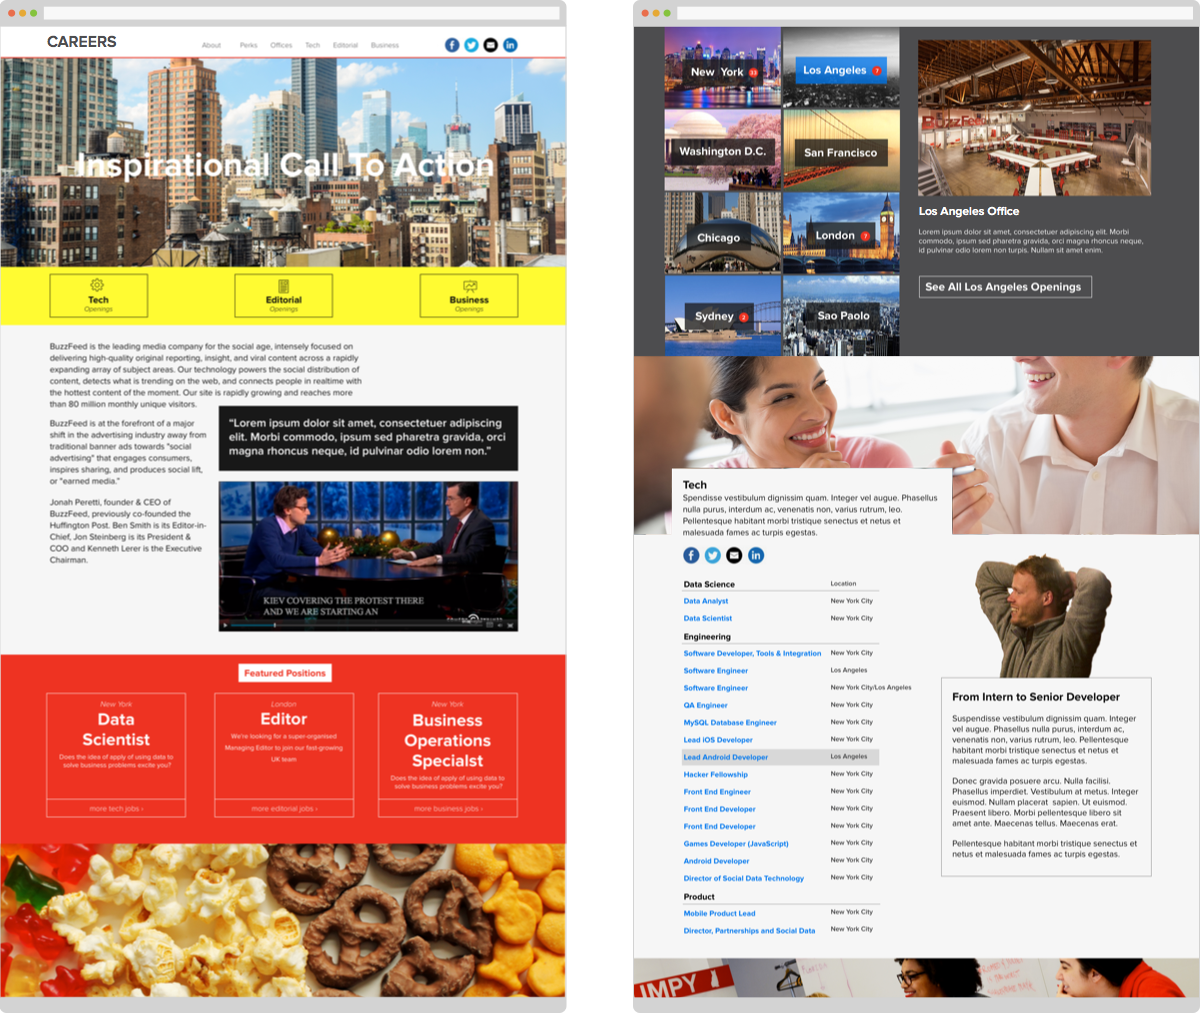
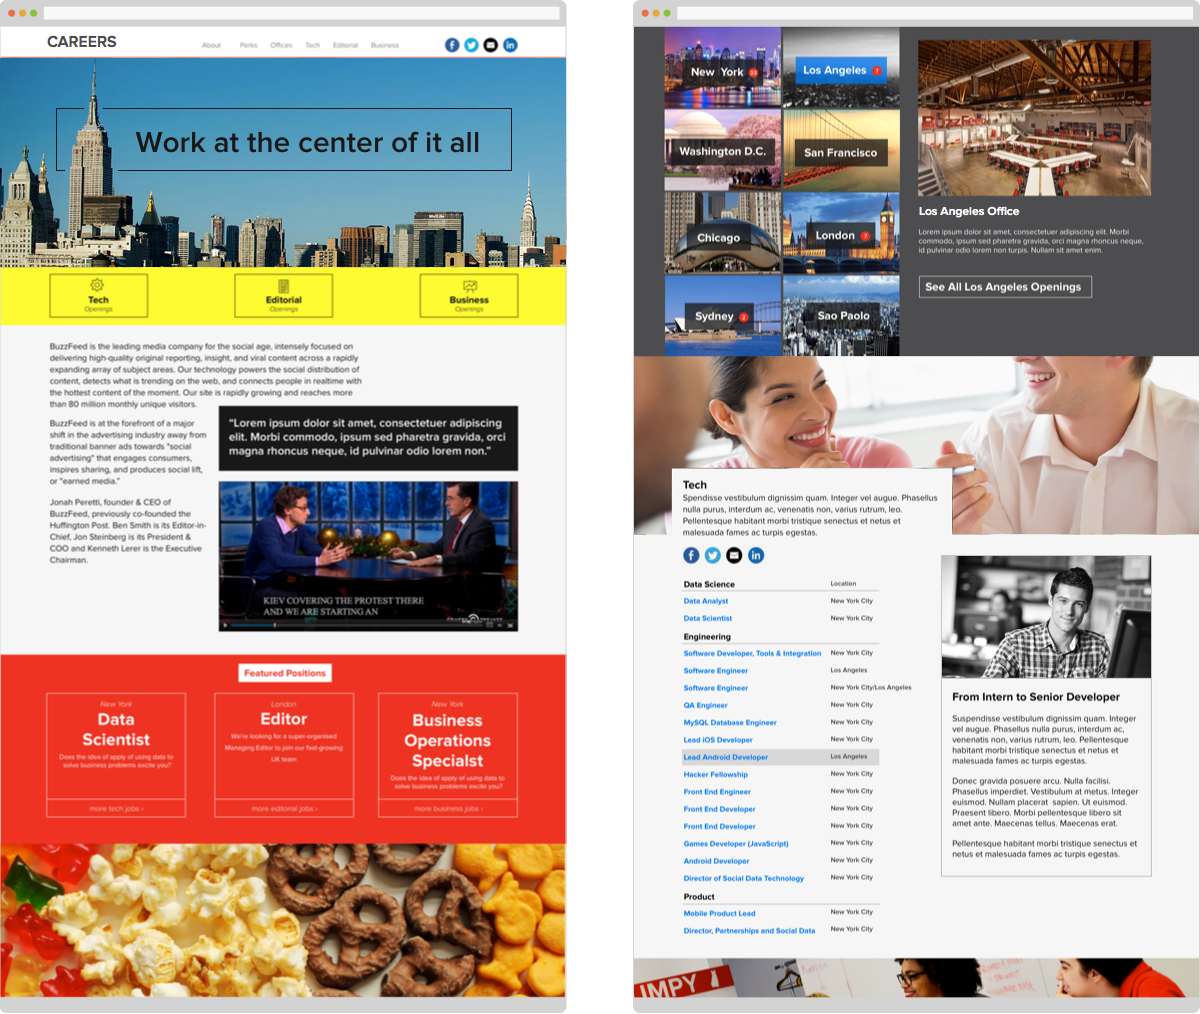
updated careers project

Changed region(s): [[0.0, 0.0306, 0.4933, 0.2751], [0.7708, 0.5503, 0.9867, 0.6726]]

diff --git a/_site/other/2016/10/10/careers.html b/_site/other/2016/10/10/careers.html
@@ -7,7 +7,7 @@
   <meta name="viewport" content="width=device-width, initial-scale=1">
 
   <title>Careers Site</title>
-  <meta name="description" content="Design for a careers microsite. This site has to list content, but also sell it. A large number of listings targeting a wide variety of job seekers necessita...">
+  <meta name="description" content="Design for a careers microsite. This site has two distinct goals. I needed to list content, but also sell it to visitors. The visual design gives the impress...">
 
   <link rel="stylesheet" href="/assets/main.css">
   <link rel="canonical" href="http://localhost:4000/other/2016/10/10/careers.html">
@@ -65,13 +65,15 @@
   </header>
 
   <div class="post-content" itemprop="articleBody">
-    <p>Design for a careers microsite. This site has to list content, but also sell it. A large number of listings targeting a wide variety of job seekers necessitates multiple forms of navigation.</p>
+    <p>Design for a careers microsite. This site has two distinct goals. I needed to list content, but also sell it to visitors. The visual design gives the impression of an energetic, modern, and global business. I filled it with bright graphics keep the page from being too text heavy. Job listings are interspersed with information about benefits and company vision.</p>
 
-<p>In addition to searching by office and department, featured listings are highlighted. Bright graphics keep the page from being too text heavy. Profiles of employees bring a human touch.</p>
+<p>A large number of listings targeting a wide variety of job seekers necessitated multiple forms of navigation. I gave users the option to filter by department or location, or simply scan all the openings. This meets the needs of applicants looking for a specific job, as well as users looking for general information. Featured listings are highlighted, allowing HR to boost the profile of certain opportunities.</p>
+
+<p>Profiles of employees bring in a human touch, while showing applicants that upward mobility is possible.</p>
 
 <p><img src="/images/other-careers1.png" alt="Desktop version of careers site" /></p>
 
-<p>Responsive design reaches the user wherever they are. The site was designed mobile first.</p>
+<p>Responsive design reaches the user wherever they are. The site was designed mobile first. These wireframes show how the site responds to different viewports.</p>
 
 <p><img src="/images/other-careers2.png" alt="Desktop, tablet, and mobile version of site" /></p>
 
